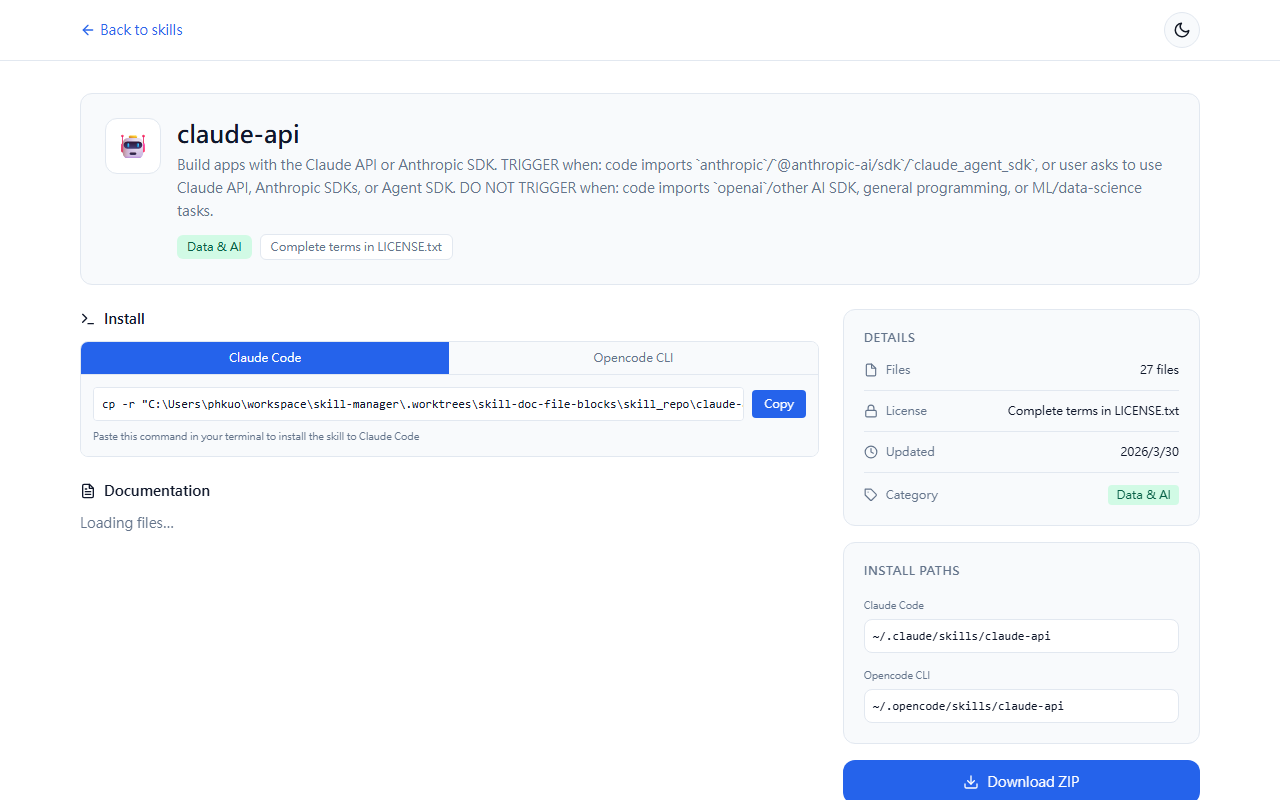
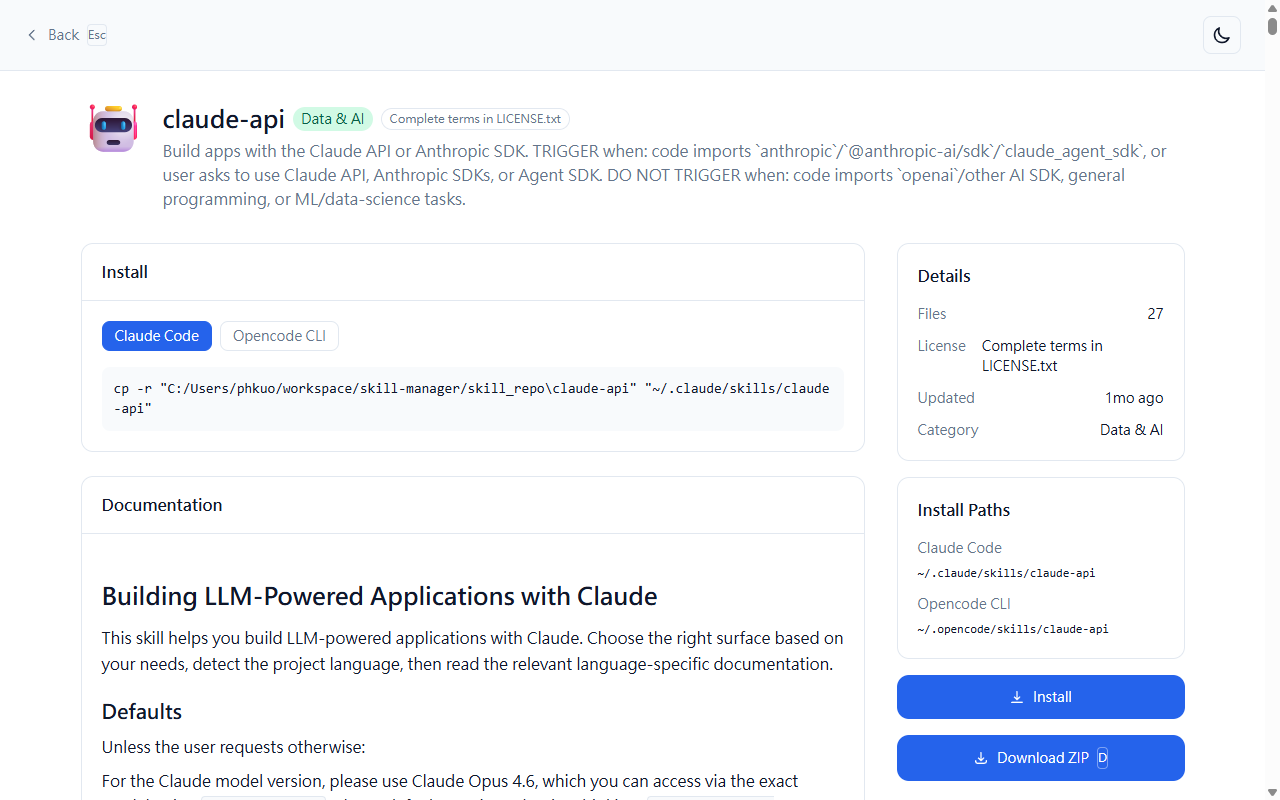
fix(home): inline search-shortcut kbd styles; refresh README screenshots
The "/" keyboard hint badge in the search box was rendering as a bare glyph
because px-1.5/py-0.5/rounded/border/right-2 are absent from the JIT-purged
vendor Tailwind bundle (the trap CLAUDE.md warns about). Replaces those
utilities with the equivalent inline declarations using existing CSS vars.

Also refreshes docs/screenshots/01-home.png and 02-skill-detail.png to
reflect the post-redesign UI: styled keyboard hint, no Copy button on
detail, rendered documentation, current Install/Download CTAs.

diff --git a/frontend/index.html b/frontend/index.html
@@ -34,8 +34,8 @@
         class="w-full pl-9 pr-10 py-2 rounded-lg border text-sm outline-none focus:ring-2"
         style="background-color:var(--bg-primary);color:var(--text-primary);border-color:var(--border)">
       <kbd id="search-shortcut-hint" title="Press / to focus search"
-        class="absolute right-2 top-1/2 -translate-y-1/2 text-xs px-1.5 py-0.5 rounded border pointer-events-none"
-        style="border-color:var(--border);color:var(--text-secondary);background-color:var(--bg-secondary);font-family:inherit">/</kbd>
+        class="absolute top-1/2 -translate-y-1/2 text-xs pointer-events-none"
+        style="right:0.5rem;padding:2px 6px;border:1px solid var(--border);border-radius:4px;color:var(--text-secondary);background-color:var(--bg-secondary);font-family:inherit">/</kbd>
     </div>
   </div>
   <button id="theme-toggle" class="p-2 rounded-lg border flex-shrink-0" style="border-color:var(--border)" aria-label="Toggle theme">